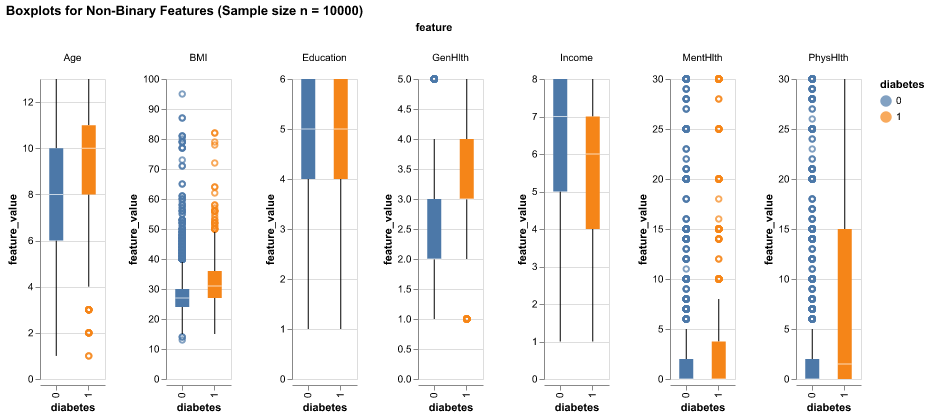
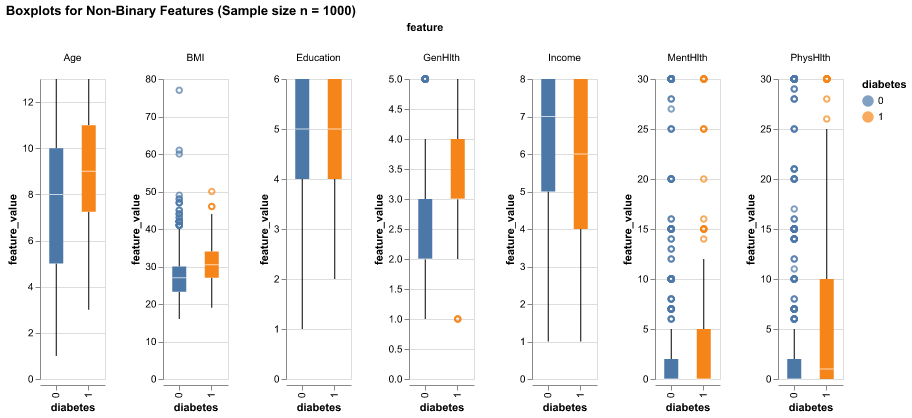
correct eda_boxplot to use sample size n = 1000

diff --git a/scripts/04-EDA.py b/scripts/04-EDA.py
@@ -117,7 +117,7 @@ def eda_histogram(X_train: pd.DataFrame) -> alt.Chart:
 def eda_boxplot(X_train: pd.DataFrame) -> alt.Chart:
     """
     Creates a set of boxplots of all non-binary features in the training data set.
-    A random sample of 10000 observations is used for generating these plots due to
+    A random sample of 1000 observations is used for generating these plots due to
     program runtime constraints and to not oversatuarate the box plots.
 
     Parameters
@@ -146,7 +146,7 @@ def eda_boxplot(X_train: pd.DataFrame) -> alt.Chart:
     ).facet(
         column='feature:N'
     ).properties(
-        title ='Boxplots for Non-Binary Features (Sample size n = 10000)'
+        title ='Boxplots for Non-Binary Features (Sample size n = 1000)'
     ).resolve_scale(
         y="independent"
     )
@@ -289,7 +289,7 @@ def run_eda_function(command: str, path = None):
 
         case "boxplot":
             click.echo("Creating boxplots of all non-binary features from a random sample of 10000 observations...")
-            df_sample = X_train.sample(n=10000, random_state=522)
+            df_sample = X_train.sample(n=1000, random_state=522)
             plot = eda_boxplot(df_sample)
 
         case "correlation":
